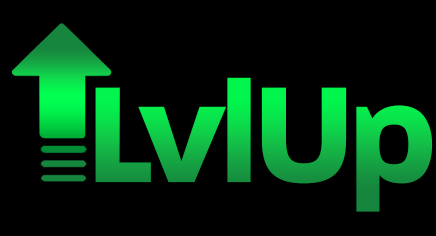
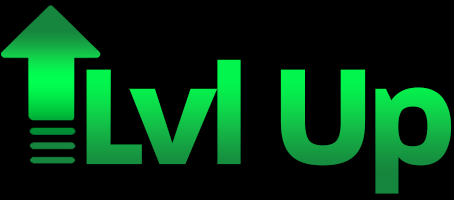
Add files via upload

Changed region(s): [[0.0, 0.03, 1.0, 0.99]]

diff --git a/style.css b/style.css
@@ -437,6 +437,17 @@ a:active {
     margin-top: -60px;
 }
 
+.headlinetext {
+    font-size: 30px;
+    font-weight: 900;
+    background: linear-gradient(to bottom, #00fd4c, #0a8146);
+    -webkit-background-clip: text; /* Applies gradient to text */
+    -webkit-text-fill-color: transparent; /* Makes text take the gradient */
+    display: inline-block; /* Helps prevent layout issues */
+    text-align: left;
+    letter-spacing: -1.5px;
+}
+
 .highlight {
     font-size: 30px;
     font-weight: 900;
@@ -829,14 +840,15 @@ a:active {
 
 .rectangle p {
     background: linear-gradient(to bottom, #ffffff, #b0b4b2);
-    -webkit-background-clip: text; /* Applies gradient to text */
-    -webkit-text-fill-color: transparent; /* Makes text take the gradient */
+    -webkit-background-clip: text;
+    -webkit-text-fill-color: transparent;
     font-size: 24px;
     font-weight: 500;
-    margin: -15px 0;
-    margin-top: -15px; /* Adjusted top margin */
-    margin-left: 20px;
-    font-weight: 500;
+    margin: -15px auto; /* Changed from 0 to auto for horizontal centering */
+    text-align: center; /* Center the text */
+    margin-top: -15px;
+    margin-left: 0; /* Remove left margin */
+    padding: 0 20px; /* Add horizontal padding instead */
 }
 
 /* --------------------------

diff --git a/index.html b/index.html
@@ -39,8 +39,12 @@
   <section class="wellcome_area clearfix" id="home">
     
     <div class="container h-100">
+      <div class="logo-container2">
+        <img src="img\bg-img\lvluplogo.png" height="75px" alt="Logo" />
+        <span class="headlinetext">Lvl Up</span>
+    </div>
       <div class="logo-container">
-          <img src="img\bg-img\lvlup header2.png" height="160px" alt="Logo" />
+          <height="160px" alt="Logo" />
       </div>
     </div>
     <div class="Headline">
